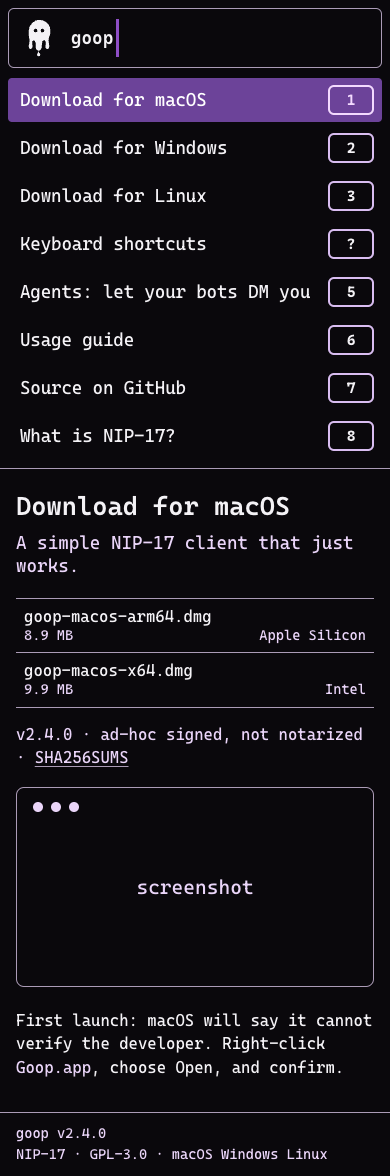
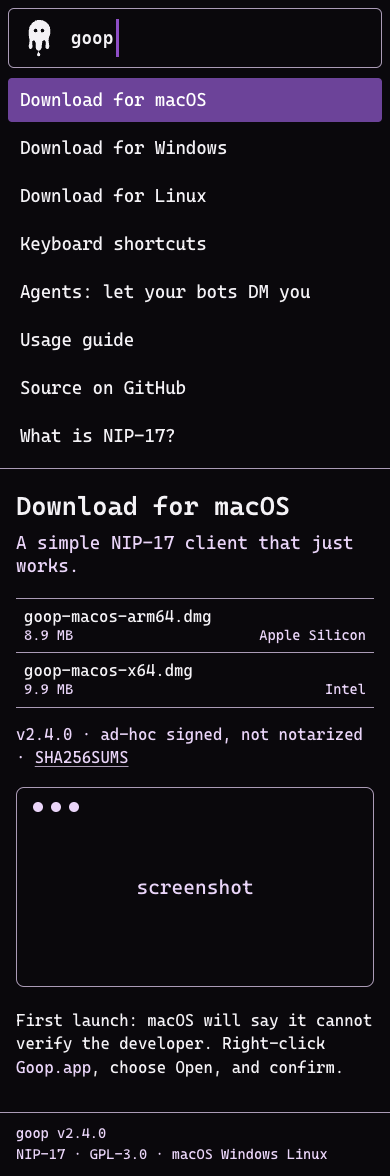
fix: refit the query width once the webfont has loaded

Changed region(s): [[0.8308, 0.0612, 0.9846, 0.398]]

diff --git a/src/scripts/palette.ts b/src/scripts/palette.ts
@@ -50,6 +50,8 @@ function filter() {
 // Monospace: the input is exactly as wide as its text, so the caret sits after it.
 const fit = () => (input.style.width = `${Math.max(input.value.length, input.placeholder.length)}ch`);
 fit();
+// ch is measured on the fallback font until Cascadia arrives.
+document.fonts.ready.then(fit);
 input.addEventListener('input', () => {
   fit();
   filter();
